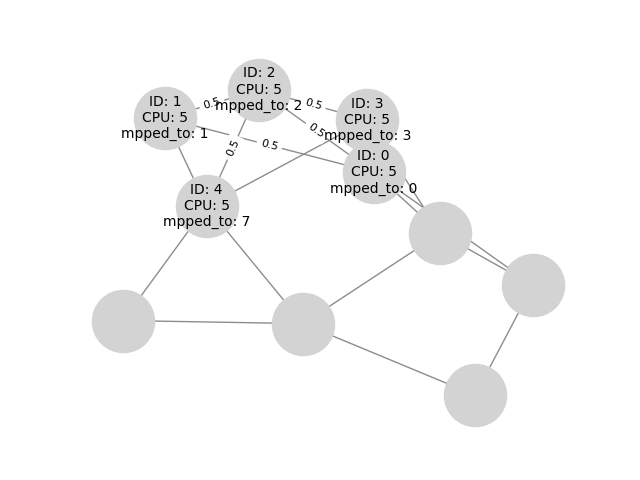
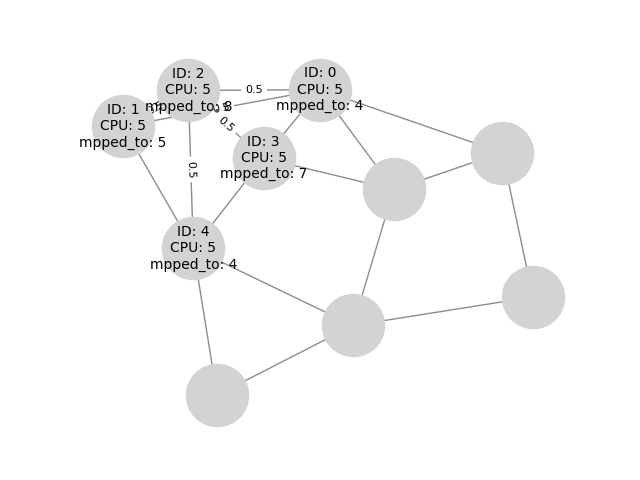
fixing the second problem of updating the graph for reability issue

diff --git a/Deep_QLearning_5G-master/nsl_placement.py b/Deep_QLearning_5G-master/nsl_placement.py
@@ -117,15 +117,42 @@ def nsl_placement(req, index, substrate, already_backup, a, reliability_total): 
                
                 print("REABIILTY ISSUE --------------------- ")
 
+
+
+    G = nx.Graph()
+
+    for node in substrate.graph["nodes"]:
+            G.add_node(node["id"], cpu=node["cpu"], p=node["p"])
             
+    for link in substrate.graph["links"]:
+            G.add_edge(link["source"], link["target"], bw=link["bw"])
+    pos = nx.spring_layout(G, 0.5)
+    plt.figure() 
+    nx.draw_networkx_nodes(G, pos, node_size=2000, node_color='lightblue')
+    nx.draw_networkx_edges(G, pos, width=1, alpha=0.9, edge_color='gray')
+    node_labels = {node["id"]: f"ID: {node['id']}\nCPU: {node['cpu']}\nP: {node['p']}" for node in substrate.graph["nodes"]}
+    nx.draw_networkx_labels(G, pos, node_labels, font_size=10, font_color='black', verticalalignment='center')
+    edge_labels = {(link["source"], link["target"]): str(link["bw"]) for link in substrate.graph["links"]}
+    nx.draw_networkx_edge_labels(G, pos, edge_labels, font_size=8, font_color='black')
+    plt.axis('off')
+    plt.savefig("Before_UPdate.png")
 
     if rejected: ## free the ressources taken in the allocation process
         for vnf in vnfs:#the nodes of the reduced graph of the accepted nslr are traversed   
             if "mapped_to" in vnf:## the vnode is mapped to one of the phisical nodes
                 n = next(n for n in nodes if (n["id"] == vnf["mapped_to"] ) )## returns the phisical node mapped to the vnode                
                 n["cpu"] = n["cpu"] + vnf["cpu"] ## kill will free the ressources, we will add the cpu taken to the phisical noode's cpu
+                substrate.graph["nodes"][n["id"]]["cpu"] += vnf["cpu"]
+                print("recharge: ", n["cpu"], substrate.graph["nodes"][n["id"]] , n["id"])
+
+                
                 substrate.graph["centralized_cpu"] += vnf["cpu"] ## add the cpu freed to the sum of cpu ressource of all the graph
         
+
+
+
+
+
 
         links = copy.deepcopy(substrate.graph["links"])
         ## update the links in case reject of the request
@@ -143,6 +170,22 @@ def nsl_placement(req, index, substrate, already_backup, a, reliability_total): 
                    
                 except StopIteration:
                     pass
+        G = nx.Graph()
+        for node in substrate.graph["nodes"]:
+                G.add_node(node["id"], cpu=node["cpu"], p=node["p"])
+
+        for link in substrate.graph["links"]:
+                G.add_edge(link["source"], link["target"], bw=link["bw"])
+        pos = nx.spring_layout(G, 0.5)
+        plt.figure() 
+        nx.draw_networkx_nodes(G, pos, node_size=2000, node_color='lightblue')
+        nx.draw_networkx_edges(G, pos, width=1, alpha=0.9, edge_color='gray')
+        node_labels = {node["id"]: f"ID: {node['id']}\nCPU: {node['cpu']}\nP: {node['p']}" for node in substrate.graph["nodes"]}
+        nx.draw_networkx_labels(G, pos, node_labels, font_size=10, font_color='black', verticalalignment='center')
+        edge_labels = {(link["source"], link["target"]): str(link["bw"]) for link in substrate.graph["links"]}
+        nx.draw_networkx_edge_labels(G, pos, edge_labels, font_size=8, font_color='black')
+        plt.axis('off')
+        plt.savefig("After_update.png")
                
         
    
@@ -156,6 +199,8 @@ def nsl_placement(req, index, substrate, already_backup, a, reliability_total): 
     if not rejected:
         #print("VNF n°:  ", index, "MAPPED TO : ",  n["id"], "with profit:  ", n["p"])
         rejected, n_hops = analyze_links(req.nsl_graph,index, substrate)
+        if rejected:
+            print("LIIIIIIINKS", rejected)
         #print("decision after analyse links", rejected, "number of hops", n_hops)
     #else:
          #print("\n\n","***rejected by the lack of node rsc","\n\n")

diff --git a/Deep_QLearning_5G-master/main_deepsara.py b/Deep_QLearning_5G-master/main_deepsara.py
@@ -40,7 +40,7 @@ agente = None
 
 
 #RL-specific parameters 
-episodes = 3 #240##350
+episodes = 1 #240##350
 
 
 
@@ -559,13 +559,6 @@ def func_arrival(c,evt): #NSL arrival, we will treate the one URLLC request arri
 
         
 
-
-                
-        """else:
-            if(r == -1):
-                sim.reject_nslr = sim.reject_nslr +1
-                print("RESSOURCES ISSUE ____________________ ")
-                break"""
             
 
     ## the original func_arrival
@@ -579,10 +572,8 @@ def func_arrival(c,evt): #NSL arrival, we will treate the one URLLC request arri
 
 
 
-    #print("EVENTSSSSSSSSSSSSSS ")
-    #print(str(evt), end=" > \n")
-    #sim.print_eventos()
-    ## the request variable will be changed here, and storing the new urllc request for the arriving event
+    print("EVENTSSSSSSSSSSSSSS ")
+    sim.print_eventos()
 
 
 
@@ -846,7 +837,7 @@ def main():
                 # controller.substrate = copy.deepcopy(substrate_graphs.get_graph("abilene")) #get substrate    
                 centralized_initial = controller.substrate.graph["centralized_cpu"]
                 bw_initial = controller.substrate.graph["bw"]
-                controller.simulation.set_run_till(15)   ## set the run_till variable of SIm to 15, the end of the simulatin is after 15 time units
+                controller.simulation.set_run_till(3)   ## set the run_till variable of SIm to 15, the end of the simulatin is after 15 time units
                                                         ## initially was 15
                 prepare_sim(controller.simulation)   ## creates the arrival events and the twindow_end event to prepare the environment          
                 controller.run()    ## runs all the events of the list one by one, here we execute the run of the class SIm, and a function for each event  

diff --git a/Deep_QLearning_5G-master/substrate_graphs.py b/Deep_QLearning_5G-master/substrate_graphs.py
@@ -56,15 +56,15 @@ substrate10 = {"directed": False, "multigraph": False,
  "min_bw_cost": 400.0, "max_bw_revenue": 3000.0, 
  "max_cpu_profit": 2300.0, "max_bw_profit": 2600.0, 
  "nodes": [
-      {"p":0.974, "cpu": 300, "id": 0}, 
+      {"p":0.974, "cpu": 100, "id": 0}, 
       {"p":0.996, "cpu": 100, "id": 1}, 
       {"p":0.982, "cpu": 100, "id": 2}, 
       {"p":0.991, "cpu": 100, "id": 3}, 
-      {"p":0.975, "cpu": 300, "id": 4}, 
+      {"p":0.975, "cpu": 100, "id": 4}, 
       {"p":0.991, "cpu": 100, "id": 5}, 
       {"p":0.995, "cpu": 100, "id": 6}, 
       {"p":0.989, "cpu": 100, "id": 7}, 
-      {"p":0.982, "cpu": 300, "id": 8}, 
+      {"p":0.982, "cpu": 100, "id": 8}, 
       {"p":0.976, "cpu": 100, "id": 9}],  
  "links": [
      {"bw": 5000, "source": 0, "target": 2}, 

diff --git a/Deep_QLearning_5G-master/nsl_request.py b/Deep_QLearning_5G-master/nsl_request.py
@@ -107,7 +107,7 @@ def get_operation_time(mean_operation_time):
     if round(value[0])== 0: #and round(value[0]) <= 180: #60: #para evitar duraciones de 0 y mayores a un valor
         value[0] = 1 ## to times under 1    
     #return round(value[0])
-    return 0.2
+    return 0.5
    
    
 
